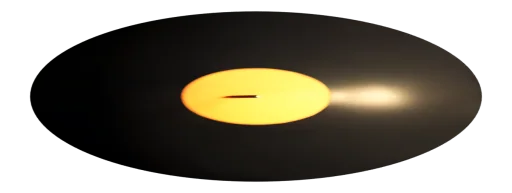
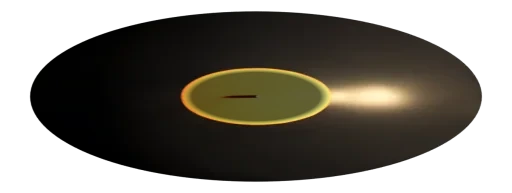
Show the hologram player only when the music object is clicked, and mark the record so its spin is visible

Changed region(s): [[0.3438, 0.342, 0.6562, 0.6528]]

diff --git a/client/src/room/RoomScreen.jsx b/client/src/room/RoomScreen.jsx
@@ -46,6 +46,10 @@ export default function RoomScreen({ code }) {
   const [name, setName] = useState('');
   const [items, setItems] = useState(null); // the objects the visitor placed; null = the scene's default arrangement
   const [decorating, setDecorating] = useState(false);
+  // The hologram player is hidden at first. Clicking the music object in the room shows it, and clicking again hides it.
+  // (The music side can also start or skip a track from the same click when it is connected.)
+  const [playerOpen, setPlayerOpen] = useState(false);
+  const togglePlayer = () => setPlayerOpen((open) => !open);
 
   const scene = scenes?.find((s) => s.slug === slug) || scenes?.[0] || NO_SCENE;
   const editor = useItemsEditor(scene, items, setItems);
@@ -208,9 +212,9 @@ export default function RoomScreen({ code }) {
   // The room fills the whole window and every control floats on top of it in a corner.
   return (
     <div ref={view.roomRef} className={`room${idle ? ' idle' : ''}`} style={{ '--zoom': view.zoom }} onWheel={view.onWheel}>
-      <SceneStage scene={scene} settings={settings} onSettingsChange={setSettings} items={items} frozen={decorating} still={view.zoom < MOVE_MIN_ZOOM}>
+      <SceneStage scene={scene} settings={settings} onSettingsChange={setSettings} items={items} frozen={decorating} onNextTrack={togglePlayer} still={view.zoom < MOVE_MIN_ZOOM}>
         {!decorating && (
-          <Hologram scene={scene}>
+          <Hologram scene={scene} open={playerOpen}>
             <CdSlot />
           </Hologram>
         )}

diff --git a/client/src/room/RoomScreen.test.jsx b/client/src/room/RoomScreen.test.jsx
@@ -39,6 +39,22 @@ beforeEach(() => {
 });
 afterEach(() => vi.restoreAllMocks());
 
+describe('the hologram player', () => {
+  const holo = (container) => container.querySelector('.holo');
+
+  it('is hidden at first, shown by a click on the music object and hidden by the next click', async () => {
+    const { container } = renderAt('/new');
+    await screen.findByTestId('stage');
+    expect(holo(container)).not.toHaveClass('holo-open');
+
+    await userEvent.click(screen.getByRole('button', { name: 'Radio' }));
+    expect(holo(container)).toHaveClass('holo-open');
+
+    await userEvent.click(screen.getByRole('button', { name: 'Radio' }));
+    expect(holo(container)).not.toHaveClass('holo-open');
+  });
+});
+
 describe('a new room (/new)', () => {
   it('shows a loading message, then the first scene with its default effect', async () => {
     const { container } = renderAt('/new');
@@ -365,6 +381,11 @@ describe('decorating the room', () => {
     await userEvent.click(screen.getByRole('button', { name: 'Decorate' }));
     return view;
   }
+  it('hides the hologram player while decorating', async () => {
+    const { container } = await decorate();
+    expect(container.querySelector('.holo')).toBeNull();
+  });
+
   // Moves the mug one step to the right (a pointer drag does the same, see DecorateOverlay).
   async function nudgeMug() {
     screen.getByRole('button', { name: 'Mug' }).focus();

diff --git a/client/src/room/Hologram.jsx b/client/src/room/Hologram.jsx
@@ -4,6 +4,7 @@
 //             come from SPOTS below; a scene that is not listed starts the beam at the top of its music object.
 //             Each listed room also gets its own look (the .holo-<slug> rules in styles.css): lamp-lit glass, a sunlit card
 //             or a bubbly pearl panel. Other rooms get the plain cyan hologram.
+//   open      false: the hologram is switched off (clicking the music object switches it on and off)
 //   children  what is projected (the CD player)
 const DEFAULT_HUE = 188; // cyan
 
@@ -22,11 +23,11 @@ export function hologramSpot(scene) {
   return { x: box.x + box.width / 2, y: box.y, hue: DEFAULT_HUE };
 }
 
-export default function Hologram({ scene, children }) {
+export default function Hologram({ scene, open = true, children }) {
   const { x, y, hue } = hologramSpot(scene);
   const skin = SPOTS[scene.slug] ? ` holo-${scene.slug}` : '';
   return (
-    <div className={`holo${skin}`} style={{ '--hx': `${x}%`, '--hy': `${y}%`, '--holo-h': hue }}>
+    <div className={`holo${skin}${open ? ' holo-open' : ''}`} aria-hidden={!open} inert={!open} style={{ '--hx': `${x}%`, '--hy': `${y}%`, '--holo-h': hue }}>
       <div className="holo-panel">{children}</div>
       <div className="holo-beam" aria-hidden="true" />
       <div className="holo-emitter" aria-hidden="true" />

diff --git a/client/src/styles.css b/client/src/styles.css
@@ -288,7 +288,24 @@ a.chip { text-decoration: none; display: inline-block; }
   font-size: clamp(7px, calc(var(--stage-w) * 0.0086), 17px);
   transform: translate(-50%, calc(-100% - 3.4em));
   pointer-events: none;
+  /* switched off until the music object is clicked: the panel folds down into the beam and fades out */
+  opacity: 0;
+  visibility: hidden;
+  transition: opacity 0.4s ease, visibility 0s linear 0.4s;
 }
+.holo-open {
+  opacity: 1;
+  visibility: visible;
+  transition: opacity 0.4s ease;
+}
+.holo .holo-panel,
+.holo .holo-beam {
+  transform-origin: 50% 100%;
+  transition: scale 0.45s cubic-bezier(0.2, 0.8, 0.2, 1);
+}
+.holo .holo-beam { transform-origin: 50% 0; }
+.holo:not(.holo-open) .holo-panel { scale: 1 0.15; }
+.holo:not(.holo-open) .holo-beam { scale: 1 0; }
 .holo-panel {
   position: relative;
   padding: 1em 1.1em;
@@ -555,6 +572,7 @@ a.chip { text-decoration: none; display: inline-block; }
 @keyframes holo-flicker { 0%, 93%, 96%, 100% { opacity: 1; } 94% { opacity: 0.82; } 95% { opacity: 0.94; } }
 @media (prefers-reduced-motion: reduce) {
   .holo-panel, .holo-panel::before, .holo-beam, .cd-disc { animation: none !important; }
+  .holo, .holo .holo-panel, .holo .holo-beam { transition: none; }
 }
 
 .savebar {

diff --git a/client/src/room/Hologram.test.jsx b/client/src/room/Hologram.test.jsx
@@ -39,4 +39,12 @@ describe('Hologram', () => {
     expect(holo.style.getPropertyValue('--hx')).toBe('50%');
     expect(holo.style.getPropertyValue('--hy')).toBe('60%');
   });
+
+  it('is switched on by default and can be switched off', () => {
+    const { container, rerender } = render(<Hologram scene={scene()}>x</Hologram>);
+    expect(container.querySelector('.holo')).toHaveClass('holo-open');
+    rerender(<Hologram scene={scene()} open={false}>x</Hologram>);
+    expect(container.querySelector('.holo')).not.toHaveClass('holo-open');
+    expect(container.querySelector('.holo')).toHaveAttribute('aria-hidden', 'true');
+  });
 });
